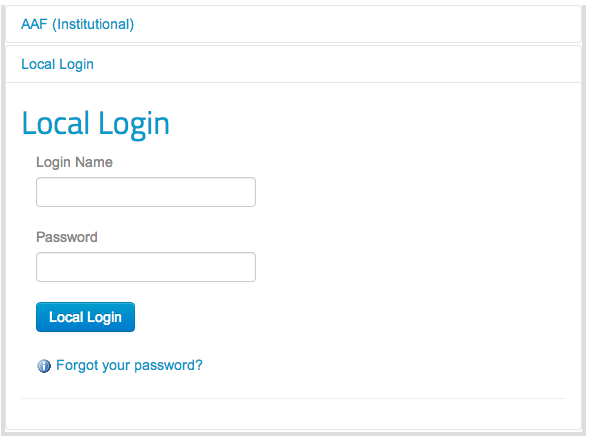
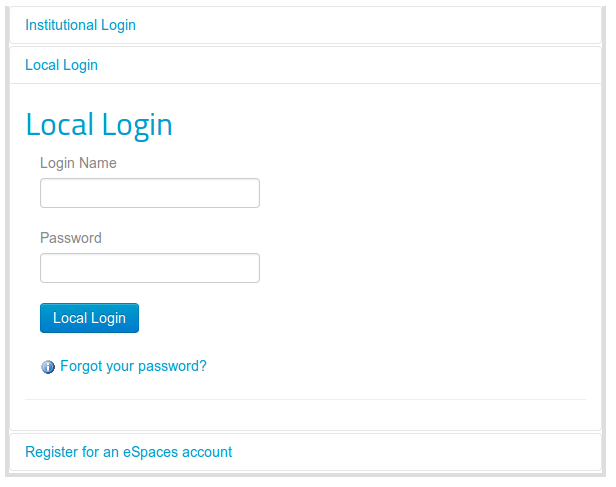
Customise login screenshots for eSpaces and reconfig for Tuakiri

Changed region(s): [[0.0, 0.0, 1.0, 1.0], [0.0611, 0.6219, 0.3362, 0.7699], [0.0611, 0.7995, 0.3362, 0.8588]]

diff --git a/source/conf.py b/source/conf.py
@@ -37,7 +37,7 @@ metadata = {
         'server-scheme': 'https',
         'server-host': 'espaces.edu.au',
         'server-port': 443,
-        'auth': ['aaf', 'local', 'self-registration'],
+        'auth': ['shibboleth', 'aaf', 'tuakiri', 'local', 'self-registration'],
         'security': 'mixed'
     }
 }
